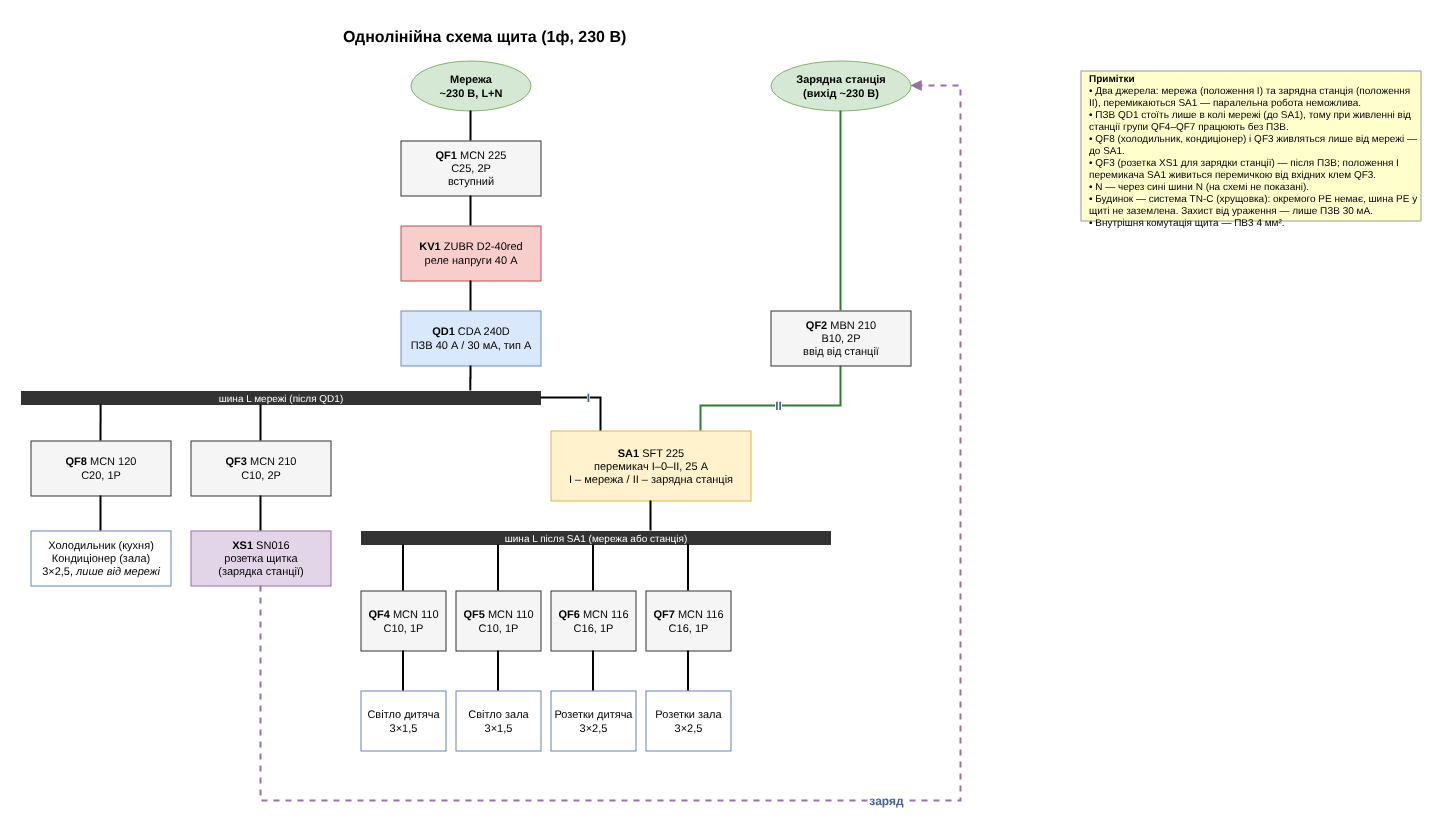
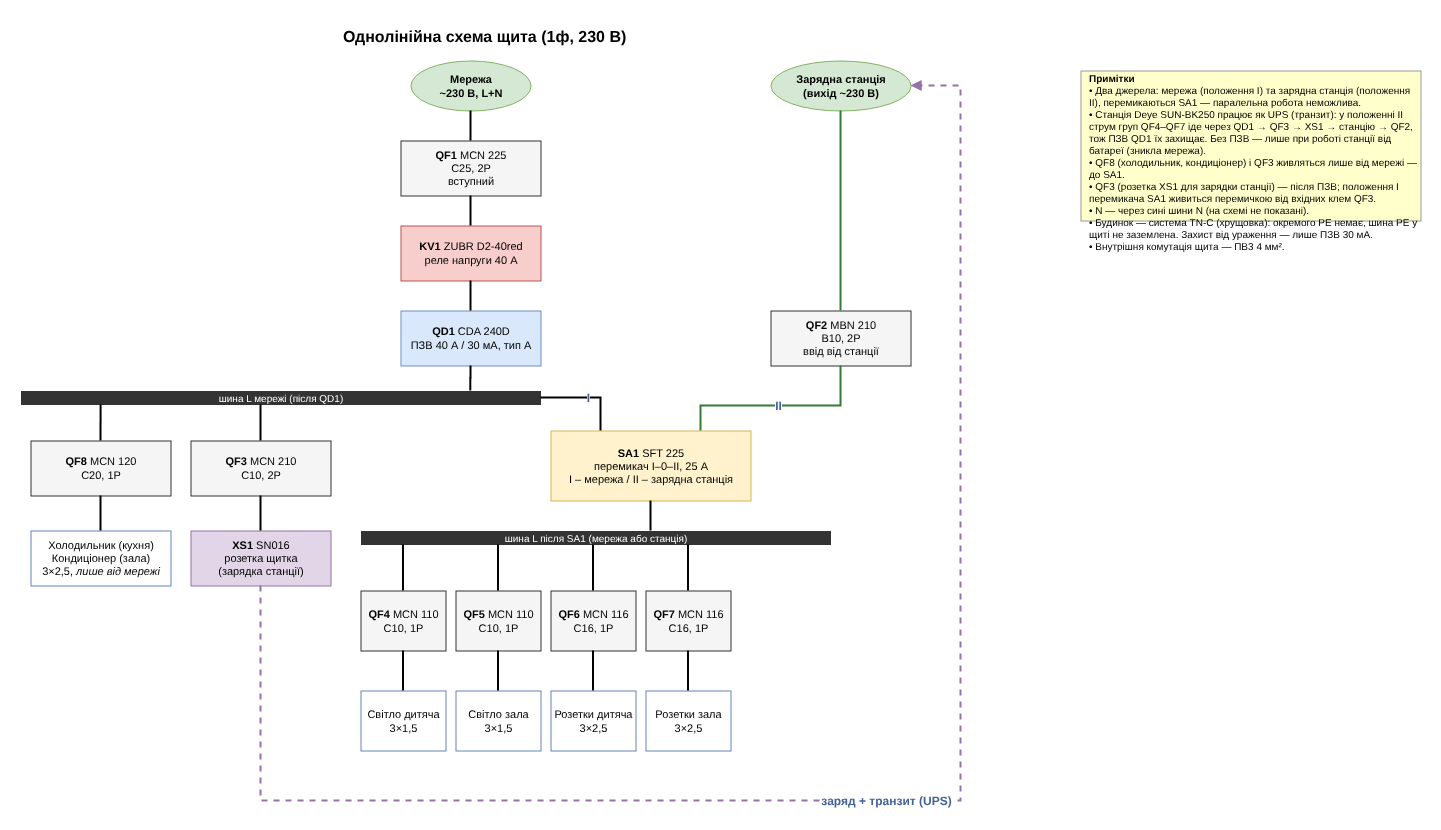
Single-line notes: Deye SUN-BK250 UPS passthrough keeps groups behind QD1
Claude-Session: https://claude.ai/code/session_01NfAMnHzY5E9M1jDxxPyqfB

Changed region(s): [[0.7495, 0.1205, 0.9681, 0.3012], [0.5621, 0.9639, 0.6558, 0.994]]

diff --git a/electrical-panel/gen_drawio.py b/electrical-panel/gen_drawio.py
@@ -59,7 +59,7 @@ qf3 = p.box(-110, 430, 140, 55, "<b>QF3</b> MCN 210<br>C10, 2P", MCB)
 p.edge(mbus, qf3, style="exitX=0.4615;exitY=1;entryX=0.5;entryY=0;")
 xs1 = p.box(-110, 520, 140, 55, "<b>XS1</b> SN016<br>розетка щитка<br>(зарядка станції)", "fillColor=#e1d5e7;strokeColor=#9673a6;")
 p.edge(qf3, xs1)
-p.edge(xs1, gen, style="dashed=1;strokeColor=#9673a6;endArrow=block;", label="заряд", pts=[(-40, 790), (660, 790), (660, 75)])
+p.edge(xs1, gen, style="dashed=1;strokeColor=#9673a6;endArrow=block;", label="заряд + транзит (UPS)", pts=[(-40, 790), (660, 790), (660, 75)])
 qf8 = p.box(-270, 430, 140, 55, "<b>QF8</b> MCN 120<br>C20, 1P", MCB)
 p.edge(mbus, qf8, style="exitX=0.154;exitY=1;entryX=0.5;entryY=0;")
 l8 = p.box(-270, 520, 140, 55, "Холодильник (кухня)<br>Кондиціонер (зала)<br>3×2,5, <i>лише від мережі</i>", "fillColor=none;")
@@ -80,8 +80,9 @@ for k, (tag, model, rating, name) in enumerate(groups):
 p.box(780, 60, 340, 150,
       "<b>Примітки</b><br>• Два джерела: мережа (положення I) та зарядна станція (положення II), "
       "перемикаються SA1 — паралельна робота неможлива.<br>"
-      "• ПЗВ QD1 стоїть лише в колі мережі (до SA1), тому при живленні від станції "
-      "групи QF4–QF7 працюють без ПЗВ.<br>"
+      "• Станція Deye SUN-BK250 працює як UPS (транзит): у положенні II струм груп QF4–QF7 "
+      "іде через QD1 → QF3 → XS1 → станцію → QF2, тож ПЗВ QD1 їх захищає. "
+      "Без ПЗВ — лише при роботі станції від батареї (зникла мережа).<br>"
       "• QF8 (холодильник, кондиціонер) і QF3 живляться лише від мережі — до SA1.<br>"
       "• QF3 (розетка XS1 для зарядки станції) — після ПЗВ; положення I перемикача SA1 живиться перемичкою від вхідних клем QF3.<br>"
       "• N — через сині шини N (на схемі не показані).<br>"
